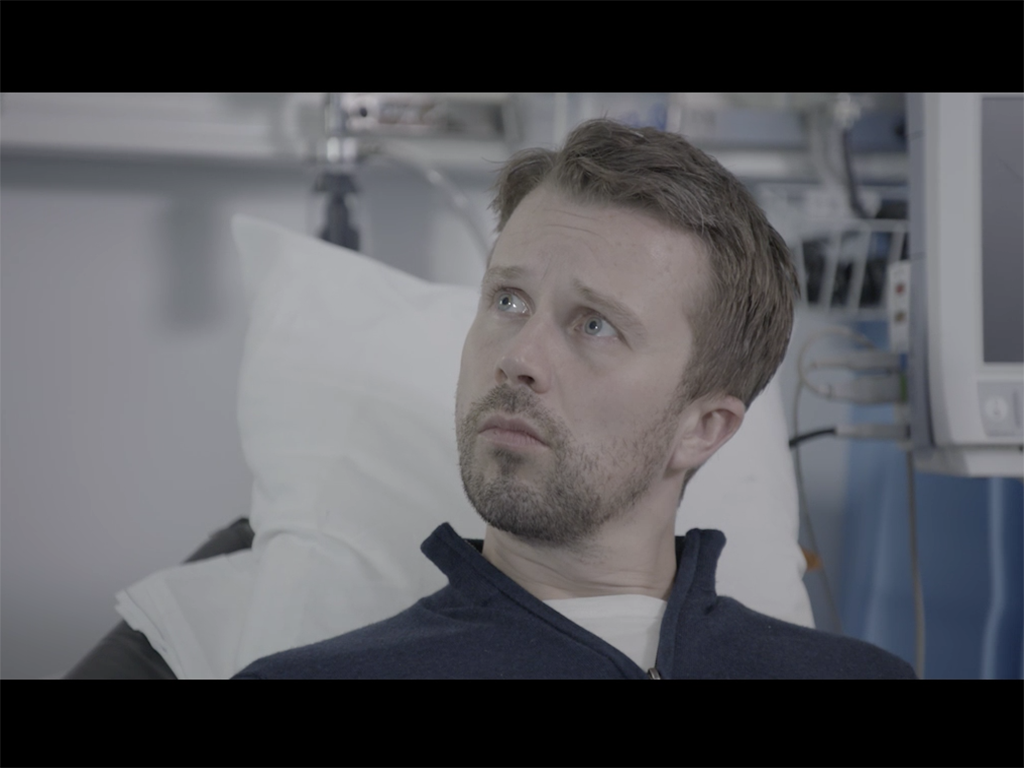
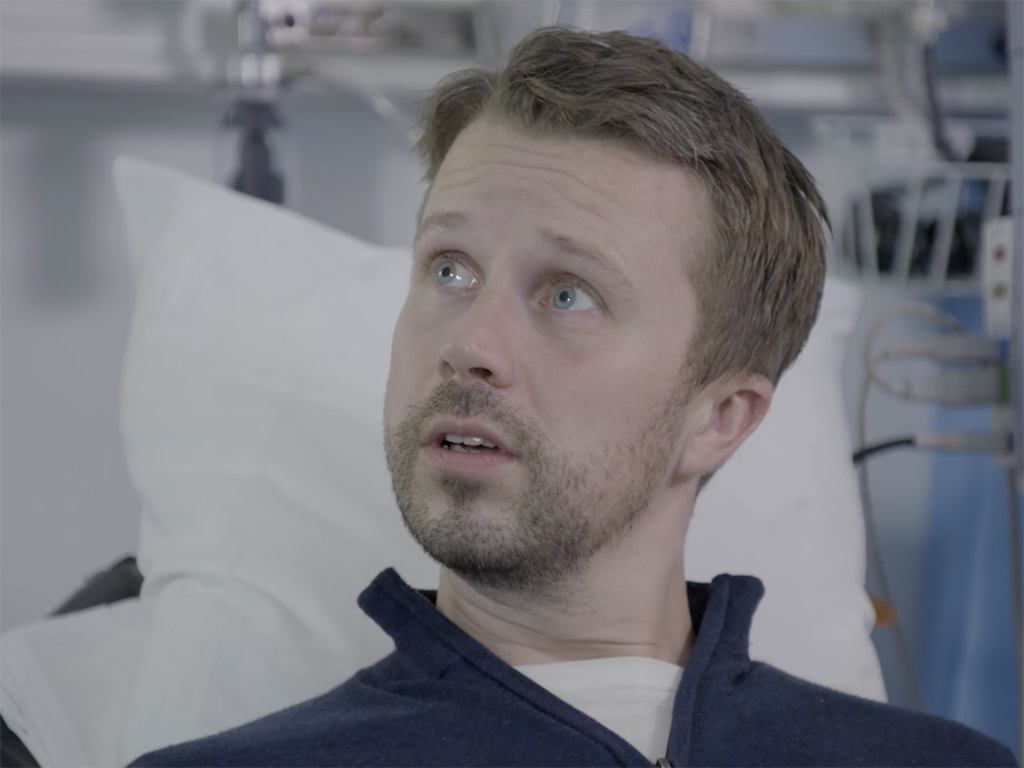
posters added

diff --git a/app/views/case2/video/video.html b/app/views/case2/video/video.html
@@ -14,7 +14,7 @@
 	stageTwo="Video2_2"
 	stageTwoPoster="Video2_2"
 	stageThree=""
-	stageThreePoster=""
+	stageThreePoster="Video2_2"
 	stageFour="Video3_2"
 	stageFourPoster="Video3_2"
 	stageFive="Video4_2"
